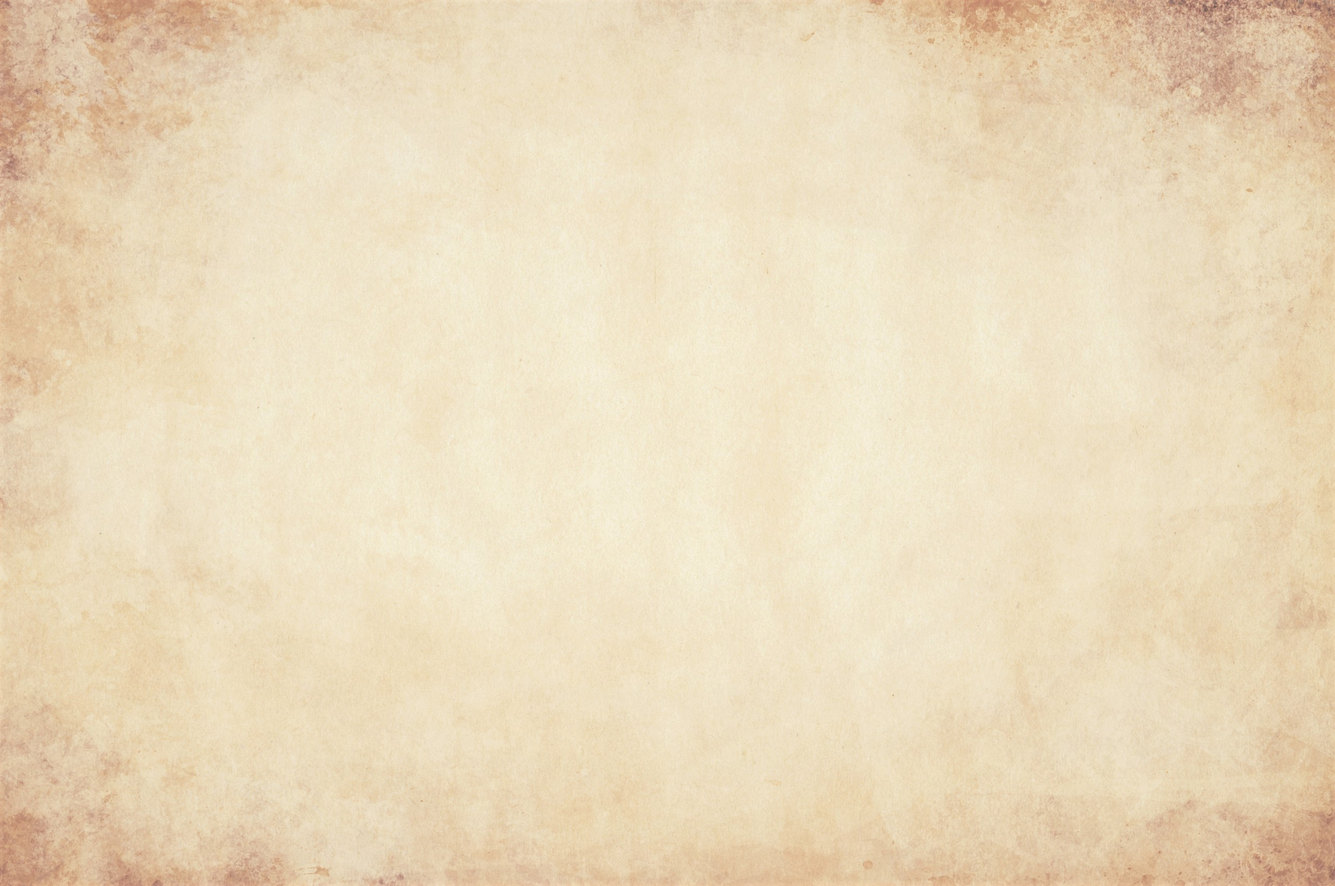
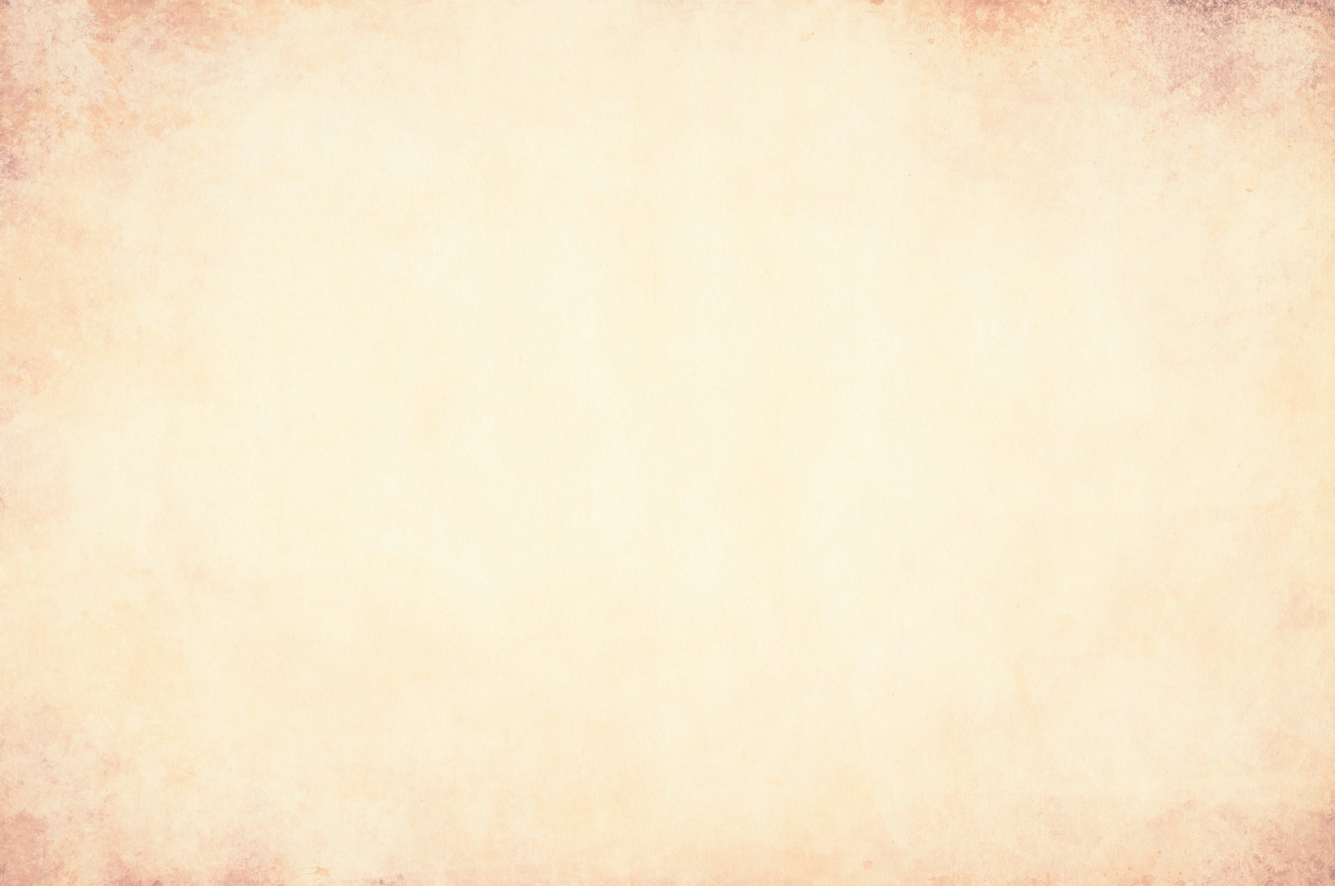
update images

diff --git a/_layouts/home.html b/_layouts/home.html
@@ -4,7 +4,7 @@ layout: default
 
 <!-- Page Header -->
 {% if page.background %}
-<header class="masthead" style="background-image: url('{{ page.background | prepend: site.baseurl | replace: '//', '/' }}')">
+<header class="masthead" style="background-image: url('{{ page.background | prepend: site.baseurl }}');background-position: 25% 80%;">
   {% else %}
   <header class="masthead">
     {% endif %}

diff --git a/_sass/custom.scss b/_sass/custom.scss
@@ -51,13 +51,18 @@
 
 .page-heading-barbarian {
   color: white;
+  text-align: center;
   h1 {
     font-family: 'Barbarian';
+    color: rgb(241, 235, 214);
     font-weight: 100;
     font-size: 150px;
     margin-top: 0;
   }
   @media only screen and (min-width: 768px) {
     padding: 125px 0;
+  }
+  span {
+    font-size: 25px;
   }
 }

diff --git a/index.html b/index.html
@@ -1,4 +1,4 @@
 ---
 layout: home
-background: "/img/hotdq.jpg"
+background: "/img/bg1.jpg"
 ---
